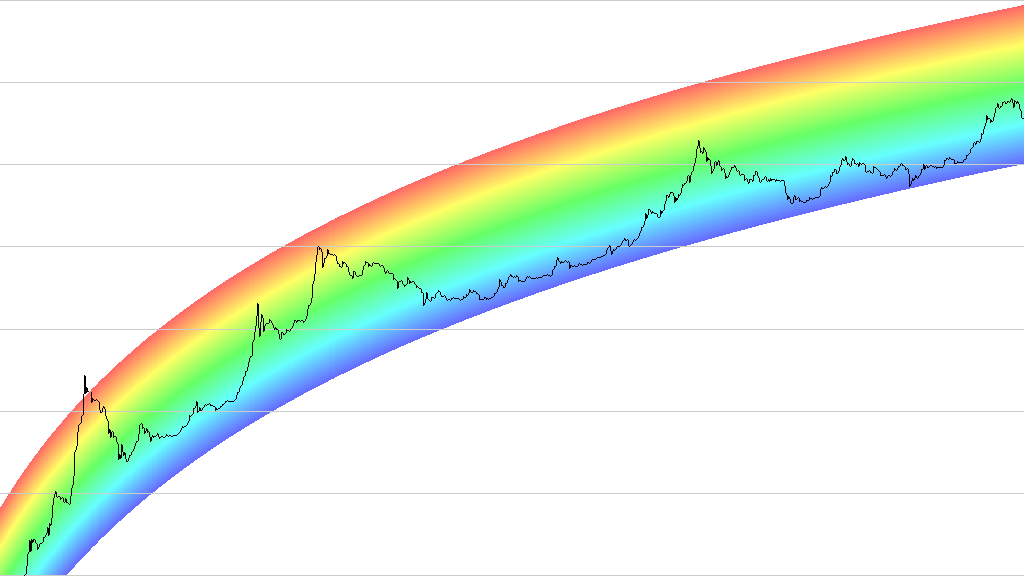
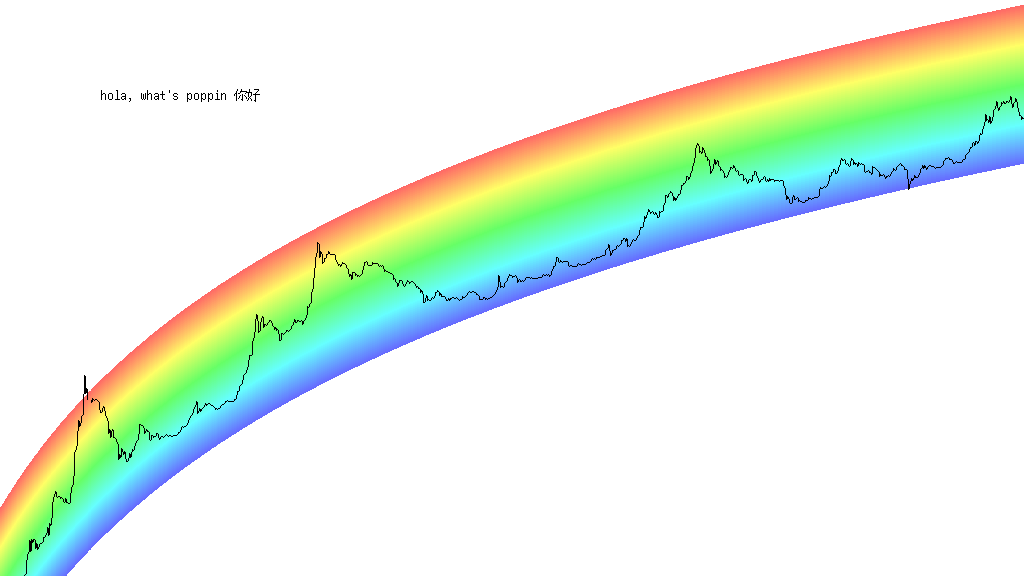
Can add text with ImageMagick lib now!

diff --git a/src/myimgproc/myimgproc.c b/src/myimgproc/myimgproc.c
@@ -1,0 +1,72 @@
+/**
+ * My image processing library.
+ *
+ * Javi Bonafonte
+ */
+
+#include <stdlib.h>
+#include <stdio.h>
+#include <MagickWand/MagickWand.h>
+
+#include "myimgproc.h"
+
+#define FONT "Unifont" // Font family used to annotate
+#define FONT_SIZE 13 // Font size used to annotate
+
+/**
+ * Annotates 'text' on 'image_path' on position 'x','y' and 'angle'.
+ */
+int annotate_img (char *img_path, double x, double y, double angle,
+        char *text) {
+
+    int code = 0;
+
+    MagickBooleanType status;
+    MagickWand *magick_wand;
+    DrawingWand *drawing_wand;
+
+    MagickWandGenesis (); // Initializaes MagickWand environment
+
+    magick_wand = NewMagickWand ();
+    drawing_wand = NewDrawingWand ();
+
+    // Sets drawing wand
+    DrawSetTextAntialias (drawing_wand, 0);
+    // (list available fonts in your system running 'convert -list font')
+    DrawSetFont (drawing_wand, FONT);
+    DrawSetFontSize (drawing_wand, FONT_SIZE);
+
+    // Reads image
+    status = MagickReadImage (magick_wand, img_path);
+    if (status == MagickFalse) {
+        fprintf (stderr, "Couldn't read image '%s'\n", img_path);
+        code = 1;
+        goto finalise;
+    }
+
+    // Annotates image
+    status = MagickAnnotateImage (magick_wand, drawing_wand, x, y, angle,
+            text);
+    if (status == MagickFalse) {
+        fprintf (stderr, "Couldn't annotate image\n");
+        code = 1;
+        goto finalise;
+    }
+
+    // Writes image
+    status = MagickWriteImage (magick_wand, img_path);
+    if (status == MagickFalse) {
+        fprintf (stderr, "Couldn't write image '%s'\n", img_path);
+        code = 1;
+        goto finalise;
+    }
+
+finalise:
+
+    magick_wand = DestroyMagickWand (magick_wand);
+    drawing_wand = DestroyDrawingWand (drawing_wand);
+
+    MagickWandTerminus(); // Terminates MagickWand environment
+
+    return code;
+}

diff --git a/src/myimg/myimg.c b/src/myimg/myimg.c
@@ -1,3 +1,9 @@
+/**
+ * My image library.
+ *
+ * Javi Bonafonte
+ */
+
 #include <stdlib.h>
 #include <stdio.h>
 #include <math.h>
@@ -102,7 +108,7 @@ int write_image (int *image, char *path, int width, int height) {
     // Opens png file for writing (binary mode)
     FILE *fp = fopen (path, "wb");
     if (fp == NULL) {
-        fprintf (stderr, "Couldn't open '%s' file\n", path);
+        fprintf (stderr, "Couldn't open file '%s'\n", path);
         code = 1;
         goto finalise;
     }
@@ -112,13 +118,13 @@ int write_image (int *image, char *path, int width, int height) {
             PNG_LIBPNG_VER_STRING, NULL, NULL, NULL);
     if (png_ptr == NULL) {
         fprintf (stderr, "Couldn't allocate png write struct\n");
-        return 1;
+        code = 1;
+        goto finalise;
     }
 
     // Initializes info structure
     png_infop info_ptr = png_create_info_struct (png_ptr);
     if (info_ptr == NULL) {
-        png_destroy_write_struct (&png_ptr, (png_infopp) NULL);
         fprintf (stderr, "Couldn't allocate png info struct\n");
         code = 1;
         goto finalise;

diff --git a/src/btc-charts.c b/src/btc-charts.c
@@ -1,6 +1,10 @@
 /**
+ * Generator of multiple Bitcoin charts PNG images using C + libpng.
+ *
+ * Javi Bonafonte
+ *
  * TODO
- *  - add anotations (prices, date, javibonafonte.com, ...) (freetype lib?)
+ *  - add anotations (prices, date, javibonafonte.com, ...)
  *  - stock to flow
  */
 
@@ -9,6 +13,7 @@
 #include <math.h>
 
 #include "myimg/myimg.h"
+#include "myimgproc/myimgproc.h"
 
 #define STR_LEN 128
 
@@ -270,7 +275,7 @@ int main (int argc, char *argv[]) {
 
     paint_trololo (image, 554, num_rows + 554, 0.1, 1000000, logarithmic);
 
-    paint_log_axis (image, 0.1, 1000000);
+    //paint_log_axis (image, 0.1, 1000000);
 
     paint_price (image, rows, num_rows, 0.1, 1000000, logarithmic);
 
@@ -280,6 +285,8 @@ int main (int argc, char *argv[]) {
     // Frees 'image' buffer
     if (image != NULL)
         free (image);
+
+    code = annotate_img (IMG_PATH, 100, 100, 0, "hola, what's poppin 你好");
 
     return code;
 }

diff --git a/src/myimgproc/myimgproc.h b/src/myimgproc/myimgproc.h
@@ -1,0 +1,2 @@
+
+int annotate_img (char *, double, double, double, char *);
